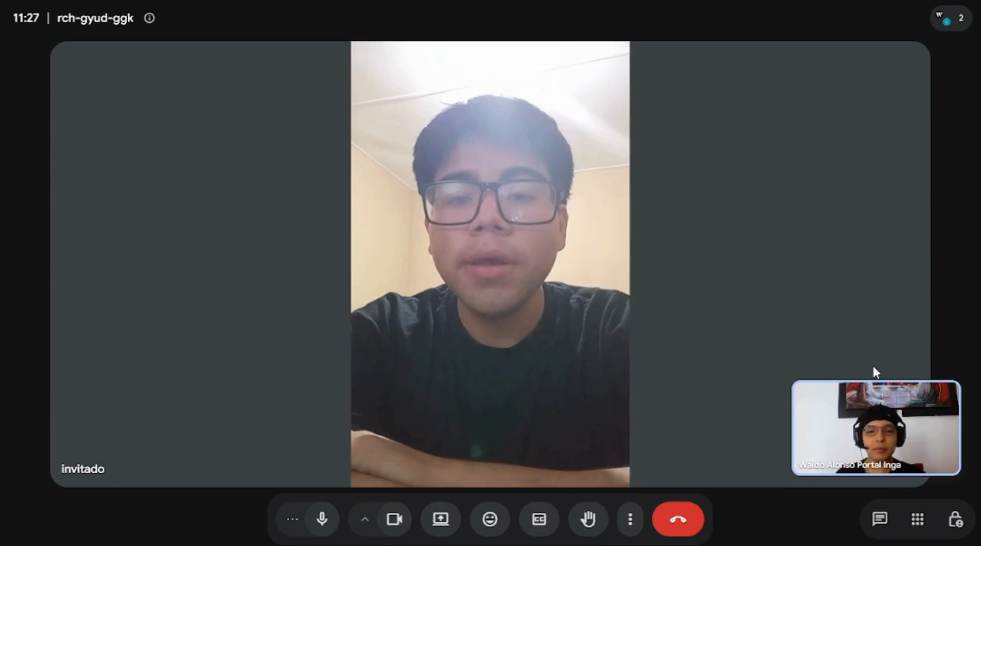
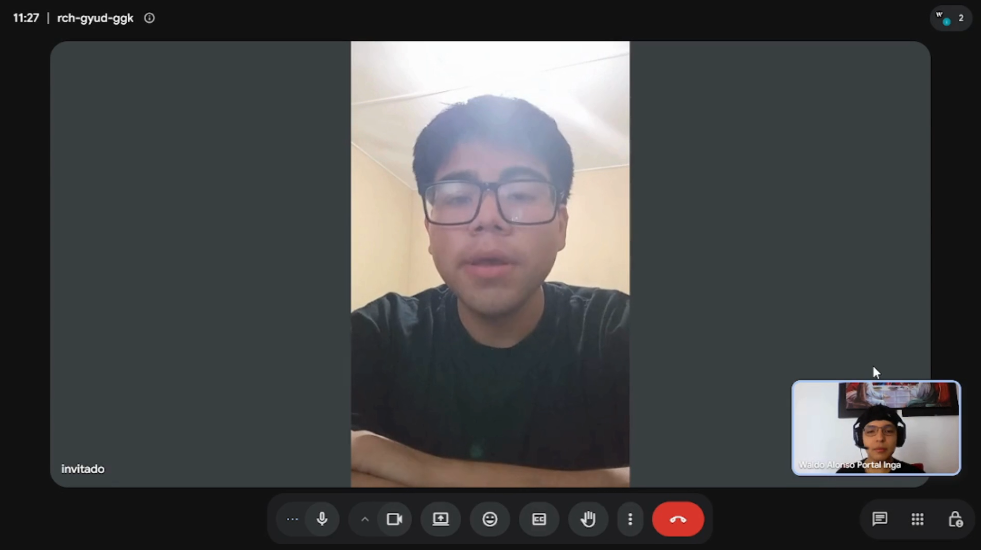
docs: update Registro de Versiones del Informe with version 9.0

diff --git a/README.md b/README.md
@@ -69,7 +69,8 @@
 | 5.0     | 15/09/2026  | Poly Gabriel Alcantara Baldeon            | Se anadió la sección de estrategias y tácticas frente a competidores.                                                                       |
 | 6.0     | 15/09/2026  | Gabriel Alejandro Vilchez Vite            | Se añadió la sección de registro de entrevistas.                                                                                            |
 | 7.0     | 16/09/2026  | Giordano Sebastian Del Ángel Trejo Espejo | Se anadió la entrevista 1 del segmento 1.                                                                                                   |
-| 8.0     | 17/09/2026  | Waldo Alonso Portal Inga                  | Se anadió la entrevista 2 del segmento 1.                                                                                                   |
+| 8.0     | 17/09/2026  | Waldo Alonso Portal Inga                  | Se anadió la entrevista 2 del segmento 2.                                                                                                   |
+| 9.0     | 17/09/2026  | Alejandro Franklin Mendoza Vergara        | Se anadió la entrevista 3 del segmento 2.                                                                                                   |
 
 ## Contenido
 
@@ -501,9 +502,9 @@ Ian prefiere utilizar solo su celular, por su comodidad, indicando que usaría l
 |-------------------------|----------|--------------------|
 | Mateo Salazar           | 25       | Santiago de Surco  |
 
-| **Segmento**   | **URL**                                                                                                           | **Inicio** | **Duración** |
-|----------------|-------------------------------------------------------------------------------------------------------------------|------------|--------------|
-| Nutricionista  | [Entrevista a Mateo Salazar](https://drive.google.com/file/d/17HxGaRUOs86-KTjkGCxS8PjZ58aepxbJ/view?usp=sharing)  | 00:00      | 3:33 min     |
+| **Segmento**   | **URL**                                                                                                                        | **Inicio** | **Duración** |
+|----------------|--------------------------------------------------------------------------------------------------------------------------------|------------|--------------|
+| Nutricionista  | [Entrevista - 2do seg obj - Mateo Salazar](https://drive.google.com/file/d/17HxGaRUOs86-KTjkGCxS8PjZ58aepxbJ/view?usp=sharing) | 00:00      | 3:33 min     |
 
 ![Entrevista-2seg-2](assets/images/Entrevista%20Sector%2002%20-%202.png)
 
@@ -519,7 +520,7 @@ Ian prefiere utilizar solo su celular, por su comodidad, indicando que usaría l
 
 | **Segmento**   | **URL**                        | **Inicio** | **Duración** |
 |----------------|--------------------------------|------------|--------------|
-| Nutricionista  | [Entrevista a Marisol López](https://upcedupe-my.sharepoint.com/:v:/g/personal/u202312343_upc_edu_pe/IQBNWO9CkMKjRLvyVrbGqXy5AfvEvMAKSnSHuzDErCb30hE?e=GJzbUm) | 00:00      | 13:00 min    |
+| Nutricionista  | [Entrevista - 2do seg obj - Marisol López](https://upcedupe-my.sharepoint.com/:v:/g/personal/u202312343_upc_edu_pe/IQBNWO9CkMKjRLvyVrbGqXy5AfvEvMAKSnSHuzDErCb30hE?e=GJzbUm) | 00:00      | 13:00 min    |
 
 ![Entrevista-3seg-2](assets/images/Entrevista3_Segmento2.png)
 
@@ -576,5 +577,9 @@ Esta sección muestra los requisitos funcionales de VitaControl a través de un 
 | TS-06               | API de nutricionistas y pacientes                    | Como Developer, quiero disponer de operaciones REST para gestionar la relación entre nutricionistas y pacientes para permitir el seguimiento profesional.                  | **Dado** que se envía un request válido para registrar una relación entre nutricionista y paciente, **cuando** el API procesa la solicitud, **entonces** registra la relación.<br>**Dado** que un nutricionista solicita información de un paciente sin autorización, **cuando** el API procesa el request, **entonces** rechaza la solicitud.                                                                                                                                                             | EP-08                         |
 | TS-07               | API de planes nutricionales                          | Como Developer, quiero disponer de operaciones REST para gestionar planes nutricionales para permitir que los nutricionistas administren los planes de sus pacientes.      | **Dado** que se envía un request válido de creación de un plan nutricional, **cuando** el API procesa la solicitud, **entonces** registra el plan y devuelve el recurso creado.<br>**Dado** que el paciente no pertenece a la cartera autorizada del nutricionista, **cuando** se solicita registrar o modificar su plan, **entonces** el API rechaza la operación.                                                                                                                                        | EP-08                         |
 | TS-08               | API de suscripciones                                 | Como Developer, quiero disponer de operaciones REST para gestionar los planes de suscripción para controlar el acceso a las funcionalidades según el tipo de cuenta.       | **Dado** que se envía un request válido para cambiar el plan de un usuario, **cuando** el API procesa la solicitud, **entonces** actualiza la suscripción correspondiente.<br>**Dado** que la solicitud de cambio de plan no es válida, **cuando** el API procesa el request, **entonces** responde con un error y mantiene la suscripción anterior.                                                                                                                                                       | EP-08                         |
+
+## 3.2 Impact Mapping
+
+## 3.3 Product Backlog
 
 </div>
